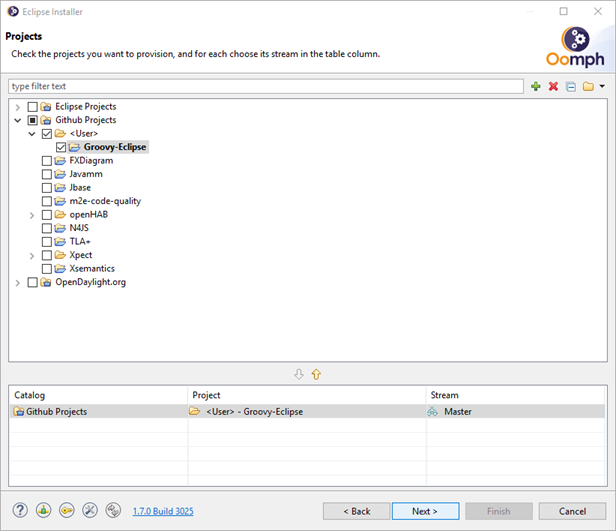
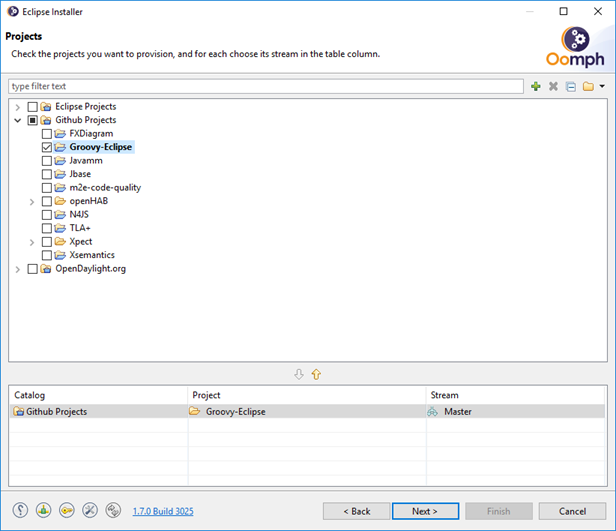
#190 [Oomph] Update documentation for oomph based setup
Installation is now much easier:
 -  Groovy-Eclipse is in the installer catalog
(https://bugs.eclipse.org/bugs/show_bug.cgi?id=517092)

 - The previous commit fixes the issue with initial compiler errors so
the workspace should be clean after setup completes.

diff --git a/docs/AutomaticSetupWithOomph.md b/docs/AutomaticSetupWithOomph.md
@@ -1,7 +1,7 @@
 Instructions for provisioning a groovy eclipse development environment with Oomph
 =================================================================================
 
-Download and run the eclipse installer [here](https://wiki.eclipse.org/Eclipse_Installer).
+Download and run the eclipse installer (aka Oomph) [here](https://wiki.eclipse.org/Eclipse_Installer).
 
 Switch the installer to *Advanced Mode*:
 
@@ -12,23 +12,17 @@ Pick a suitable base package on the product page. You are free to choose any bas
 ![Advanced Mode](images/oomph/advanced_mode_committers_package.png)
 
 
-Click "Next".
+Click "Next" and locate and check the Groovy-Eclipse project under Github Projects:
 
-The next step is only required during this testing phase. (Once the setup is merged to the Groovy-Eclipse master branch it can be added to the project catalog and Groovy-Eclipse will appear automatically). For now you have to add the project setup manually to the catalog by clicking the small green "+" on top of the wizard:
+![Catalog](images/oomph/groovy_eclipse_in_catalog.png)
 
-![Add Setup Manually](images/oomph/add_setup_manually.png)
-
-Select *Github Projects* from the dropdown list and paste the following url into the text field and press OK.
-
-https://raw.githubusercontent.com/groovy/groovy-eclipse/master/groovy-eclipse.setup
-
-![Groovy Eclipse Setup](images/oomph/groovy_eclipse_setup.png)
-
-Groovy-Eclipse will now appear as a project under Github Projects/User. Select it and press Next.
-
-![Groovy Eclipse In Catalog](images/oomph/groovy_eclipse_in_catalog.png)
-
-The installer will now ask you to fill out a few values, such as, where to install the ide, where to put the workspace, where to clone the git respository to and which method to use for the clone. Unless you have write access to the Groovy-Eclipse repository on github, select *HTTPS (Read-only, Anonymous)* from the dropdown. For target platform use Neon or Oxygen. Older targets are supported, but I don't see a good reason why you'd want that. Select *next* when you have set all values to your likings.
+The installer will now ask you to make a few choices:
+- Where do you want to install the IDE?
+- Where do you want the workspace?
+- How do you access the Groovy-Eclipse git repository on github? **Unless you have write access to the Groovy-Eclipse repository on github, select 'HTTPS (Read-only, Anonymous)' from the dropdown.** 
+- Where do you want to clone the git repository?
+- Which target platform do you want? Use Neon or Oxygen. Older targets are supported, but I don't see a good reason why you'd want that. 
+Select *next* when you have set all values to your likings.
 
 ![Variables](images/oomph/variables.png)
 
@@ -40,15 +34,13 @@ The installer will now download the required eclipse bundles and once done, star
 
 ![Bootstrap finished](images/oomph/bootstrap_finished.png)
 
-By the time you switch to the IDE, oomph is probably already cloning the Groovy-Eclipse repository. Click the small turning arrow on the ide status bar to see what's going on in the background:
+By the time you switch to the IDE, the installer is probably already cloning the Groovy-Eclipse repository. Click the small turning arrow on the ide status bar to see what's going on in the background:
 
 ![Cloning](images/oomph/clone_project.png)
 
-Oomph then downloads the required target platform bundles, imports the Groovy-Eclipse projects into the workspace and organizes them into working sets. Eventually the setup is done and a build is triggered. After the build completes, your package explorer should look like this.
+The installer then downloads the required target platform bundles, imports the Groovy-Eclipse projects into the workspace and organizes them into working sets. Eventually the setup is done and a build is triggered. After the build completes, your package explorer should look like this.
 
-![Explorer Errors](images/oomph/explorer.png)
-
-Note that there are errors. Switch to the Groovy 2.1 compiler in the Groovy preferences, restart and perform a clean build. The errors should disappear. (Unfortunately this step cannot be automated at the moment) 
+![Done](images/oomph/done.png)
 
 Now close all org.codehaus.groovyXX projects except org.codehaus.groovy25 and try running the GroovyJDTTests or AllGroovyTests suites.
 
